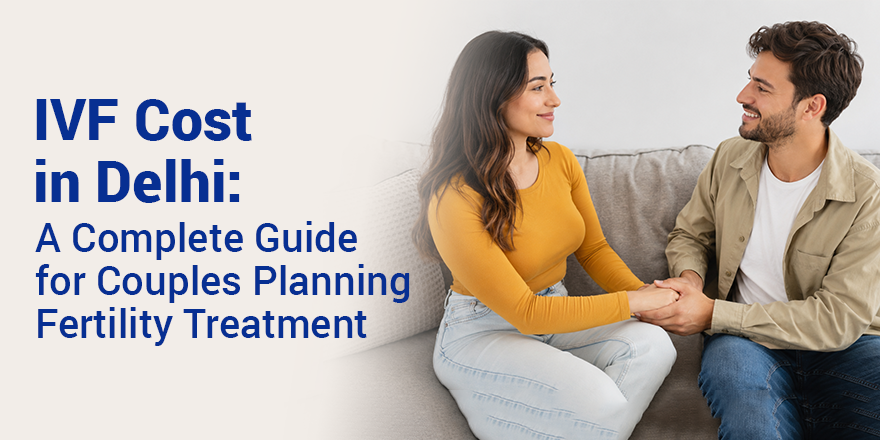
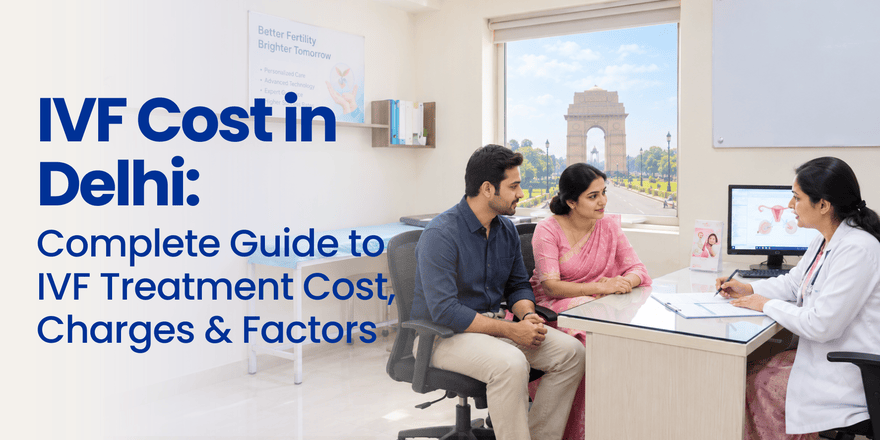
dw

diff --git a/scripts/blog-content/dummy-blog.html b/scripts/blog-content/dummy-blog.html
@@ -1,189 +1,232 @@
-<p>In many cases, the choice of undergoing an IVF procedure is both emotionally and financially tough for couples. In the early stages of consultation, their most frequently asked question is: “What is the IVF cost in Guwahati?”</p>
+<p>The cost of IVF in Delhi is dependent upon the fertility clinic, medicines, treatment process, and laboratory processes. For estimation purposes, the cost of a standard IVF procedure in Delhi comes around ₹1.5 lakh to ₹3.5 lakh, whereas higher prices may be applicable for the case of donor egg IVF and other advanced IVF procedures. Moreover, the cost of IVF treatment in Delhi can always be known before proceeding with the treatment. It will help couples planning to undergo the treatment have an easy ride. In addition to this, rather than considering just the initial costs, it is necessary to know what is covered in the entire package.</p>
 
-<p>The costs related to the IVF procedure may differ from patient to patient since every case is different. There are many variables involved in the cost of the IVF procedure, including, but not limited to, age, diagnosis of infertility, medication, investigations, techniques used for IVF, lab work done, and other medical procedures needed in addition to the basic one.</p>
+<h2>What is In Vitro Fertilization?</h2>
 
-<p>In Guwahati, the costs of a regular IVF cycle could start from around ₹1 lakh to ₹3 lakh or even higher, depending on the clinic, treatment, and services included in the IVF package.</p>
+<p>In vitro fertilization (IVF) is an assisted reproductive technology where eggs and sperms are combined in a lab to create an embryo. The embryo is then implanted into the womb of the woman to conceive a baby. In cases of infertility issues like blocked fallopian tubes, male infertility issues, lack of ovulation, low ovarian reserve, unexplained infertility, and failure of other fertility treatments, this technique is advised. This process is different for everyone. However, the first step involves the evaluation of your medical background and fertility tests.</p>
 
-<p>Thus, when looking for a clinic and selecting the right one based on IVF cost, couples should understand what is included in the offered package.</p>
+<h2>What Is the IVF Cost in Delhi?</h2>
 
-<h2>What is IVF treatment?</h2>
+<p>The cost of IVF treatment in Delhi can differ among various clinics and even patients. The present estimate of a common ivf charges in delhi is usually estimated to fall between ₹1.5 lakh and ₹3.5 lakh, depending on whether medicines, ICSI, laboratory services, etc., are included in the treatment plan. Still, there might be cases where clinics provide a smaller base cost and then charge extra for medicines.</p>
 
-<p>In Vitro Fertilisation (IVF) is one type of assisted reproductive technology that could help couples who are having trouble conceiving naturally.</p>
-
-<p>To put it in simple terms, eggs are harvested from the female and then fertilised by sperm in a laboratory setting. Post-fertilisation, the embryo formed is placed in the uterus.</p>
-
-<p>IVF can be done in cases where there is tubal blockage, some male factor infertility issues, ovulation problems, decreased ovarian reserve, endometriosis, unexplained infertility, or failure of other fertility treatment methods. IVF treatment is preceded by a consultation with a fertility expert for both partners.</p>
-
-<h2>IVF Cost in Guwahati: What Can You Expect?</h2>
-
-<p>The <strong>cost of IVF in Guwahati</strong> can differ based on the treatment plan.</p>
+<p>In addition, the ivf center in delhi cost should not be estimated solely based on the base cost offered.</p>
 
 <table>
 <thead>
 <tr>
-<th>IVF Treatment / Procedure</th>
-<th>Estimated Cost in Ghaziabad</th>
+<th>IVF Treatment Component</th>
+<th>Estimated Cost in Delhi</th>
 </tr>
 </thead>
 <tbody>
 <tr>
-<td>Initial Fertility Consultation</td>
+<td>Initial fertility consultation</td>
 <td>₹500 – ₹2,000</td>
 </tr>
 <tr>
-<td>Fertility Tests &amp; Diagnostic Screening</td>
-<td>₹5,000 – ₹15,000</td>
+<td>Fertility tests &amp; investigations</td>
+<td>₹5,000 – ₹15,000+</td>
 </tr>
 <tr>
-<td>IVF Treatment – 1 Cycle</td>
-<td>₹1,00,000 – ₹2,50,000</td>
+<td>IVF medications &amp; injections</td>
+<td>₹30,000 – ₹60,000+</td>
 </tr>
 <tr>
-<td>IVF Medicines &amp; Injections</td>
+<td>Egg retrieval procedure</td>
+<td>₹25,000 – ₹50,000</td>
+</tr>
+<tr>
+<td>IVF laboratory &amp; fertilisation charges</td>
 <td>₹30,000 – ₹60,000</td>
 </tr>
 <tr>
-<td>ICSI Treatment</td>
-<td>₹1,50,000 – ₹3,00,000</td>
+<td>Embryo transfer</td>
+<td>₹15,000 – ₹30,000</td>
 </tr>
 <tr>
-<td>Embryo Freezing</td>
-<td>₹20,000 – ₹50,000</td>
+<td>ICSI, if recommended</td>
+<td>Additional charges may apply</td>
 </tr>
 <tr>
-<td>Frozen Embryo Transfer (FET)</td>
-<td>₹40,000 – ₹80,000</td>
+<td>Embryo freezing</td>
+<td>Additional charges may apply</td>
 </tr>
 <tr>
-<td>Donor Egg IVF</td>
-<td>₹2,00,000 – ₹4,00,000</td>
+<td>Frozen embryo transfer (FET)</td>
+<td>Additional charges may apply</td>
 </tr>
 <tr>
-<td>PGT/Genetic Testing</td>
-<td>₹50,000 – ₹1,50,000</td>
+<td><strong>Approximate IVF cost for one cycle</strong></td>
+<td><strong>₹1,00,000 – ₹2,50,000+</strong></td>
 </tr>
 </tbody>
 </table>
 
-<p>These are indicative amounts and do not constitute a final price. The published figures in Guwahati differ since some packages incorporate the above-mentioned procedures while others have separate prices for medicines, laboratory tests, freezing, etc. In any case, before beginning the process of treatment, you need to request an itemized estimate in writing from the fertility clinic.</p>
+<h2>Indicative IVF Cost in Delhi</h2>
 
-<h2>What Is Included in the Cost of IVF Treatment?</h2>
+<table>
+<thead>
+<tr>
+<th>Treatment</th>
+<th>Indicative Cost</th>
+</tr>
+</thead>
+<tbody>
+<tr>
+<td>Standard IVF cycle</td>
+<td>₹1.5 lakh – ₹3.5 lakh</td>
+</tr>
+<tr>
+<td>IVF with ICSI</td>
+<td>₹2 lakh – ₹3.6 lakh or more</td>
+</tr>
+<tr>
+<td>Frozen Embryo Transfer</td>
+<td>₹60,000 – ₹1.05 lakh approximately</td>
+</tr>
+<tr>
+<td>Donor Egg IVF</td>
+<td>₹2.5 lakh – ₹4.5 lakh or more</td>
+</tr>
+<tr>
+<td>Additional genetic testing</td>
+<td>Depends on the test and number of embryos</td>
+</tr>
+</tbody>
+</table>
 
-<p>To compare the cost of IVF treatment in Guwahati, you should first find out what you pay for.</p>
+<p>These are only indicative rates and not treatment quotes. Yet, the final IVF price in Delhi will depend on your personal IVF treatment protocol, medications, and procedures.</p>
 
-<p>IVF fertility treatment in Guwahati usually includes the following procedures:</p>
+<h2>IVF Procedure in Delhi – What is Included in the Price?</h2>
+
+<p>If you consider the IVF centre in Delhi, the first question that comes up is about the price. Depending on the facility, an IVF treatment package may include:</p>
 
 <ul>
-<li>Consultation with a fertility specialist</li>
-<li>Investigations for infertility</li>
-<li>Ultrasound and monitoring</li>
-<li>Ovarian stimulation medicines</li>
-<li>Oocyte Retrieval</li>
-<li>Laboratory fertilization</li>
+<li>Fertility specialist consultation</li>
+<li>Ultrasound scans</li>
+<li>Blood tests and fertility diagnostics</li>
+<li>Monitoring of ovarian stimulation</li>
+<li>Oocyte retrieval</li>
+<li>Anesthesia or procedure fee</li>
+<li>Semen processing</li>
+<li>Embryology lab fees</li>
+<li>Fertilization</li>
 <li>Embryo culture</li>
 <li>Embryo transfer</li>
-<li>Doctor’s and hospital fees</li>
-<li>Further consultations</li>
+<li>Consultation</li>
 </ul>
 
-<p>But all of the above procedures may not be included in the offered package. Some centers deliberately exclude certain blood tests, medicines from the pharmacy, injections, freezing, thawing, and other services related to donation from the basic IVF treatment package.</p>
+<p>In addition, there might be other costs that have to be paid. These include fertility drugs, ICSI, embryo cryopreservation and storage, frozen embryo transfer, donor treatment, and genetic testing. That is why getting a quotation for an IVF procedure in Delhi is essential.</p>
 
-<h2>Other IVF Costs</h2>
+<h3>Influential Factors of the Cost of IVF Treatment in Delhi</h3>
 
-<p>Your overall IVF cost may go up in case your doctor prescribes other treatments including:</p>
+<p>It is impossible to mention a specific amount that will be charged to each couple. However, the following factors might influence the cost of the IVF procedure in Delhi.</p>
 
-<p><a href="/fertility-treatments/icsi/"><strong>ICSI</strong></a>: <p>An advanced fertilisation method that could be needed in some cases of male infertility.</p>
+<p><strong>1. Fertility Drugs</strong></p>
 
-<p><strong>Embryo cryopreservation:</strong> <p>In case any extra embryos are left after embryo transfer, they can be stored for future use.</p>
+<p>The use of hormonal medication and injections is quite widespread in cases of ovarian stimulation. In turn, the dosage and the period of treatment will differ from patient to patient. This point will influence the overall cost of the treatment.</p>
 
-<p><strong>Frozen embryo transfer:</strong> <p>A new procedure will have to be carried out in case a frozen embryo is transferred during another cycle.</p>
+<p><strong>2. Type of IVF Procedure</strong></p>
 
-<p><strong>PGT: </strong><p>Genetic screening of embryos in some cases may be needed</p>
+<p>There is a possibility that the standard IVF procedure may differ in cost from the procedure with ICSI. The latter involves injecting a sperm into an egg and is used in cases of male factor infertility only.</p>
 
-<p><strong>Egg/Sperm donation:</strong> <p>Donor procedures also add to the cost.</p>
+<p><strong>3. Freezing of the Embryos</strong></p>
 
-<p>Not all patients need these treatments. Your fertility specialist will tell you whether or not you need these procedures.</p>
+<p>In case the embryos need to be frozen for further transfer, additional charges should be paid. Meanwhile, the transfer of frozen embryos will also have its own cost.</p>
 
-<h3>What Determines the IVF Procedure Cost in Guwahati?</h3>
+<p><strong>4. Genetic Testing</strong></p>
 
-<p>The IVF fertility procedure in Guwahati can have variable cost among other people depending on several things that determine the overall cost of the treatment.</p>
+<p>In some cases, couples will need to undergo genetic testing of the embryos according to their medical history and conditions. This procedure will increase the total cost of the treatment.</p>
 
-<p><strong>1. The Age of the Woman</strong></p>
+<p><strong>5. No. of IVF Cycles</strong></p>
 
-<p>The age of the woman can affect her ovarian reserve and egg quality as well as the type of treatment to be recommended.</p>
+<p>While some may conceive after one cycle, others might require further treatment sessions. But the no. of cycles cannot be determined beforehand since the success rate of IVF depends upon individual cases.</p>
 
-<p><strong>2. The Type of Fertility Problem</strong></p>
+<p><strong>6. Donor Eggs or Sperm</strong></p>
 
-<p>Problems such as blocked tubes, low ovarian reserve, endometriosis, PCOS and male-factor infertility can require various treatments.</p>
+<p>In case of medically suggested use of donor eggs or sperm, the process and costs would differ from traditional IVF.</p>
 
-<p><strong>3. Medications</strong></p>
+<h3>Donor Egg IVF Cost in Delhi</h3>
 
-<p>The medications used for ovarian stimulation will also contribute to the overall cost of IVF.</p>
+<p>The cost of donor egg IVF in Delhi is higher than that of IVF, as the treatment process also includes the donor’s process along with the patient’s process. The cost of donor egg IVF in Delhi NCR varies greatly with the numbers ranging between ₹2.5 lakh and ₹4.5 lakh depending on the clinic and its package.</p>
 
-<p><strong>4. IVF Procedure</strong></p>
+<p>IVF with donor egg can be considered in cases like lower ovarian reserve, premature ovarian insufficiency, genetic disorders, and repeated IVF failure due to poor quality of eggs. But it is always a medical decision. Nevertheless, you have to consult a fertility expert first about your specific condition.</p>
 
-<p>There is a difference between standard IVF and IVF with ICSI procedures in terms of cost.</p>
+<h3>Selection of an IVF Centre in Delhi</h3>
 
-<p><strong>5. Embryo Freezing/Storage</strong></p>
-
-<p>Embryos that need to be frozen may attract further costs in the process.</p>
-
-<h3>What Would Be the Cost of Test Tube Babies in Guwahati?</h3>
-
-<p>"Test tube babies" is a common name for an IVF procedure. So, when you search for the test tube baby cost in Guwahati, you will most probably mean IVF cost. It can depend on the protocol of the procedure and the services offered. You can get more details about your possible treatment and costs from a fertility doctor during your consultation.</p>
-
-<h3>What Is the Cost of Surrogacy in Guwahati?</h3>
-
-<p>If you search for the surrogacy cost in Guwahati, you need to know that it is different from ordinary IVF. There are some special aspects connected with surrogacy procedure, such as medical, legal, and regulatory ones. There are particular laws regulating surrogacy and ART in India, and Assam is provided with the state-appropriate authority under the national ART and Surrogacy regulations. Thus, you should not consider any general online price.</p>
-
-<h3>How to Select The Best IVF Centre in Guwahati?</h3>
-
-<p>There are some things that should be considered other than price when selecting the <a href="/assam/best-ivf-centre-in-guwahati/"><strong>best IVF centre in Guwahati</strong></a>.</p>
+<p>When looking for an <a href="/best-ivf-centre-in-delhi/"><strong>IVF centre in Delhi</strong></a>, do not evaluate the centers based on costs alone.</p>
 
 <ul>
-<li>Experienced fertility doctors</li>
-<li>Skilled embryologists</li>
-<li>Advanced IVF laboratory</li>
-<li>Pricing details for the procedure</li>
-<li>Detailed explanation of the procedures</li>
-<li>Proper evaluation for fertility problem</li>
-<li>Counselling and support to the patient</li>
-<li>Suitable application of advanced fertility procedure</li>
-<li>Details of what is covered under the package</li>
+<li>In addition, you may consider:</li>
+<li>Experience of fertility experts</li>
+<li>Embryology laboratory facility</li>
+<li>Transparency in costing</li>
+<li>IVF package offered</li>
+<li>Counselling services available</li>
+<li>Investigations for fertility provided by the centre</li>
+<li>Experience in handling various types of infertility issues</li>
+<li>Care provided post embryo transfer</li>
 </ul>
 
-<p>Low pricing does not necessarily mean low cost in the end if certain services are separately charged.</p>
+<p>The inclusion of some important services in the package could increase the cost upfront but will save you money ultimately. On the other hand, an expensive centre does not necessarily offer better service.</p>
 
-<h3>Why choose For Seeds of Innocens IVF?</h3>
+<h3>Why Should You Choose Seeds of Innocens IVF?</h3>
 
-<p>For couples seeking information about Seeds of Innocens IVF cost in Guwahati, the actual cost will be determined after a consultation, as IVF prices vary depending on the individual plan. With Seeds of Innocens IVF cost in Guwahati , patients can consult with an expert about their fertility problem, treatment plan, and costs associated with the treatment. The suitable fertility treatment is all about understanding one's condition, available treatment, estimated cost, and the care one is going to receive.</p>
+<p> Selecting a centre for your infertility treatment is a big step to take, and most couples prefer a centre where they can have an open discussion of their issues.</p>
 
-<h3>When Do You Need to See an IVF Specialist?</h3>
+<p>At seeds of innocens ivf Cost Delhi fertility treatment and assisted reproductive procedures are offered with personalized treatment plans in mind. Patients can consult about their fertility history, treatment options, and cost before commencing the treatment process.</p>
 
-<p>If you have tried conceiving unsuccessfully, do not put off seeing a specialist due to concerns regarding the IVF costs.</p>
+<p>If you are looking for Seeds of Innocens IVF Cost in Delhi, then you can contact them personally because the cost of IVF will depend on the treatment regimen that will be prescribed to you.</p>
 
-<p>A fertility test does not automatically lead to an IVF treatment. Your physician might recommend lifestyle modifications, medicines, or alternative methods such as IUI based on your age and medical history.</p>
+<h3>How to Plan IVF Treatment Budget?</h3>
 
-<p>Consultation at an early stage helps in pinpointing the possible reason behind your inability to conceive and helps you know your treatment options.</p>
+<p>When planning an IVF treatment, you need to clarify several things in advance, such as:</p>
 
-<h3>Frequently Asked Questions</h3>
+<p>What does an IVF treatment package include?</p>
 
-<h4>1. How much does an IVF treatment cost in Guwahati?</h4>
+<p>Does it include fertility medication?</p>
 
-<p>The IVF treatment cost in Guwahati varies significantly, but the published estimates usually show the cost of one IVF cycle ranging from ₹1 lakh to ₹3 lakh or more based on several factors including the clinic.</p>
+<p>Is ICSI included in the package?</p>
 
-<h4>2. Are medicines included in the cost of an IVF treatment in Guwahati?</h4>
+<p>Does it cover the procedure of embryo freezing and storage?</p>
 
-<p>No, the medicines and other expenses may be listed separately. Always ask for an itemized estimate.</p>
+<p>What about frozen embryo transfer?</p>
 
-<h4>3. How much will it cost me to undergo IVF through ICSI in Guwahati?</h4>
+<p>Does it cover blood work and ultrasound control?</p>
 
-<p>The cost of IVF with ICSI will be higher than regular IVF, as ICSI is another process carried out in the lab itself. The actual cost varies from one clinic to another.</p>
+<p>Are there any additional charges in the lab?</p>
 
-<h4>4. Is test tube baby procedure similar to IVF?</h4>
+<p>How much money will the next cycle of IVF treatment cost?</p>
 
-<p>Yes. “Test tube baby” is a common name for IVF (In-Vitro Fertilisation).</p>
+<p>Remember also that IVF treatment cost in Delhi cannot be the deciding factor alone. You need to select the type of IVF treatment based on your health conditions and the recommendations of a fertility specialist.</p>
 
-<h4>5. How can I find out about my exact cost of undergoing IVF?</h4>
+<h3>Final Thought</h3>
 
-<p>The most accurate means of finding out would be consulting a fertility doctor. Once both partners are evaluated and the required tests are done, the clinic will give you a treatment</p>
+<p>An awareness of the IVF cost in Delhi would help couples plan their course of treatment better. There are several factors that determine the cost of IVF, such as the type of IVF, medicines, lab procedures, ICSI, embryo cryopreservation, genetic screening, and use of donor eggs or sperm.</p>
+
+<p>Instead of looking for the cheapest IVF fees in Delhi, you must consider clear pricing, competent fertility specialists, proper lab facilities, and a treatment plan suitable for your condition.</p>
+
+<p>For those who wish to opt for IVF treatment, consulting a fertility expert would give you a clear idea of your treatment options and estimated cost.</p>
+
+<p><strong>Also Read:</strong> <a href="/blog/how-to-choose-right-ivf-centre-in-delhi/"><strong>How to Choose the Right IVF Centre in Delhi: What Actually Matters for Success</strong></a></p>
+
+<p><strong>Frequently Asked Questions</strong></p>
+
+<h4>1.What is the cost of IVF in Delhi?</h4>
+
+<p>On average, the cost of IVF in Delhi can depend on many things and varies according to clinics and treatment methods. An approximate cost per cycle can be anywhere between ₹1.5 lakh and ₹3.5 lakh.</p>
+
+<h4>2. What is the cost of the IVF procedure with medicines in Delhi?</h4>
+
+<p>Medicines could be part of the IVF package itself or could be separate expenses. Since the need for fertility drugs varies from patient to patient, it is advisable to get an itemized cost estimate from the clinic, including stimulatory medicines and other medications.</p>
+
+<h4>3. How much is the test tube baby cost in Delhi ?</h4>
+
+<p>Since test tube baby cost in Delhi can sometimes cost more than standard IVF, the cost in Delhi can range from ₹2.5 lakh to ₹4.5 lakh or more, depending on the clinic, donor services, and other factors.</p>
+
+<h4>4. Is IVF treatment costly in Delhi?</h4>
+
+<p>IVF treatment can be quite costly, but the amount varies among patients. Therefore, one should not select an IVF clinic just based on the lowest prices alone.</p>
+
+<h4>5. What will be the total cost for the process of IVF in Delhi?</h4>
+
+<p>It is impossible to tell the exact cost of the IVF procedure in Delhi until a fertility doctor examines your medical background and fertility issues and decides on the course of treatment. Ask for a detailed estimate of the total cost from the clinic.</p>
